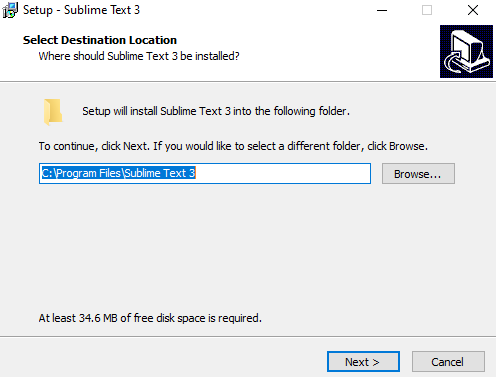
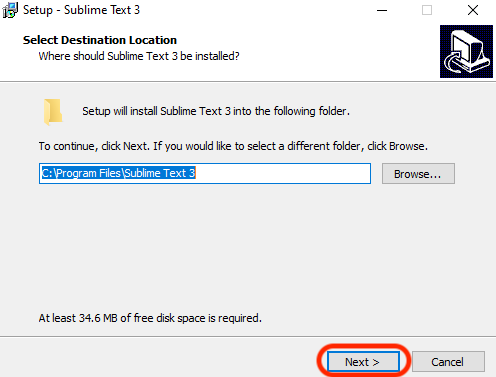
add git bash

Changed region(s): [[0.6351, 0.9045, 0.8468, 1.0]]

diff --git a/_partials/win_git_bash.md b/_partials/win_git_bash.md
@@ -1,0 +1,50 @@
+# Git Bash
+
+Git bash will allow you to run some linux command on Windows.  
+Go to [Git-SCM](https://git-scm.com/download/wim) and click on "Windows".  
+
+![](images/gitbash_1.png)
+
+Click on "Next".  
+
+![](images/gitbash_2.png)
+
+Leave the default installation folder and click on "Next".  
+
+![](images/gitbash_3.png)
+
+Leave the default components qnd click on "Next".  
+
+![](images/gitbash_4.png)
+
+Leave the default name "Git" and click on "Next".  
+
+![](images/gitbash_5.png)
+
+In the dropdown, choose your new favorite text editor "Use Sublime Text as Git's default editor" and click on "Next".  
+
+![](images/gitbash_6.png)
+
+Click on "Next".  
+
+![](images/gitbash_7.png)
+
+Once again, click on "Next".
+
+![](images/gitbash_8.png)
+
+Guess what? Click on "Next" :)  
+
+![](images/gitbash_9.png)
+
+"Nexttttt!".  
+
+![](images/gitbash_10.png)
+
+"Again!".  
+
+![](images/gitbash_11.png)
+
+And again! Just kidding, click on "Install".  
+
+![](images/gitbash_12.png)
